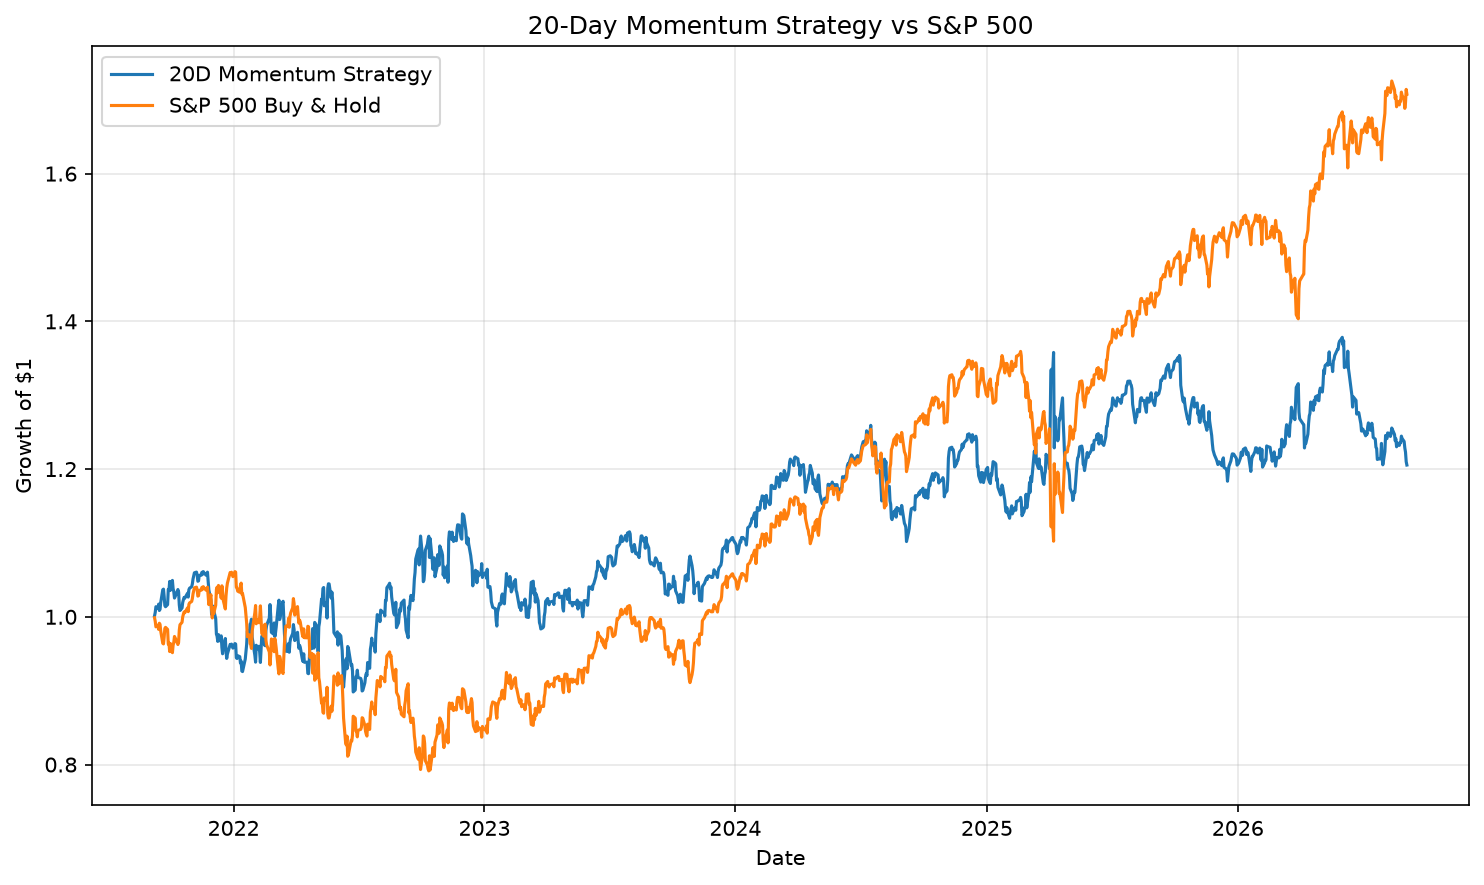
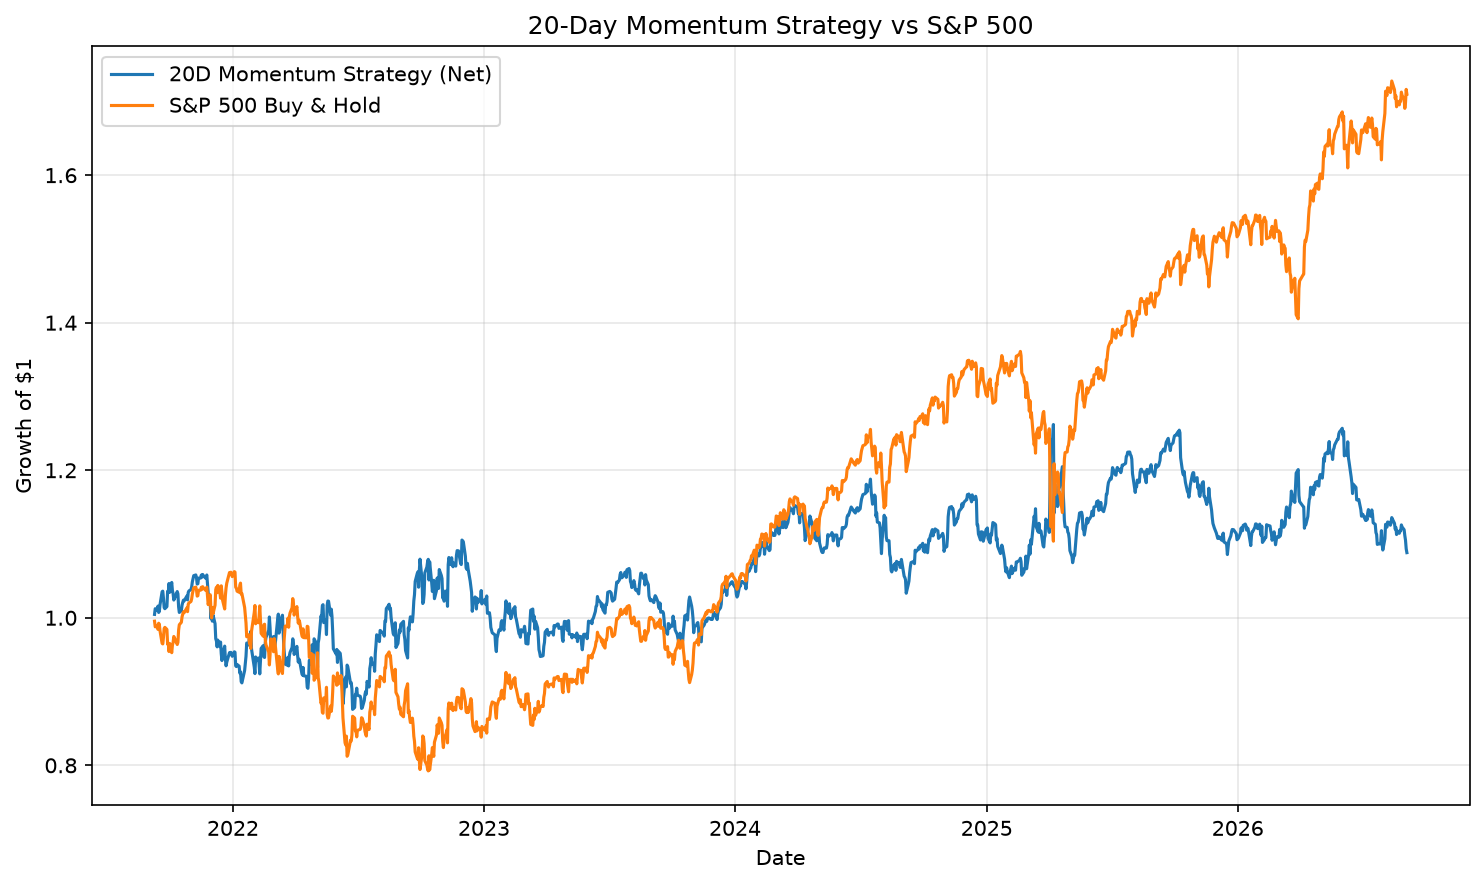
Add momentum strategy backtest and performance analytics

diff --git a/main.py b/main.py
@@ -40,7 +40,6 @@ print(
 
 print("-" * 82)
 
-
 for name, ticker in markets.items():
 
     data = yf.download(
@@ -52,30 +51,24 @@ for name, ticker in markets.items():
 
     prices = data["Close"].squeeze()
 
-    # Daily log returns
     log_returns = np.log(
         prices / prices.shift(1)
     ).dropna()
 
-    # Latest daily log return
     daily_return = log_returns.iloc[-1] * 100
 
-    # 20-day momentum
     momentum_20d = (
         prices.iloc[-1] / prices.iloc[-21] - 1
     ) * 100
 
-    # Last 20 daily log returns
     recent_returns = log_returns.tail(20)
 
-    # Annualized 20-day realized volatility
     vol_20d = (
         recent_returns.std()
         * np.sqrt(252)
         * 100
     )
 
-    # Z-score
     mean_20d = recent_returns.mean()
     std_20d = recent_returns.std()
 
@@ -86,7 +79,6 @@ for name, ticker in markets.items():
     else:
         z_score = 0
 
-    # Standardized return classification
     if z_score > 1:
         classification = "HIGH"
     elif z_score < -1:
@@ -103,7 +95,6 @@ for name, ticker in markets.items():
         f"{classification:>12}"
     )
 
-
 print("=" * 82)
 
 
@@ -115,8 +106,6 @@ print()
 print("SIMPLE 20D MOMENTUM BACKTEST - S&P 500")
 print("=" * 60)
 
-
-# Download 5 years of S&P 500 data
 sp500 = yf.download(
     "^GSPC",
     period="5y",
@@ -126,26 +115,15 @@ sp500 = yf.download(
 
 prices = sp500["Close"].squeeze()
 
-
-# ==========================================================
-# RETURNS AND MOMENTUM
-# ==========================================================
-
 # Daily simple returns
 returns = prices.pct_change()
 
-# 20-day price momentum
+# 20-day momentum
 momentum = (
     prices / prices.shift(20)
 ) - 1
 
-
-# ==========================================================
-# TRADING SIGNAL
-# ==========================================================
-
-# +1 when 20-day momentum is positive
-# -1 when 20-day momentum is negative
+# Trading signal
 signal = np.where(
     momentum > 0,
     1,
@@ -157,19 +135,36 @@ signal = pd.Series(
     index=prices.index
 )
 
+# Shift signal by one day to avoid look-ahead bias
+position = signal.shift(1)
 
-# ==========================================================
-# STRATEGY RETURNS
-# ==========================================================
-
-# Shift the signal by one trading day.
-# This prevents look-ahead bias:
-# today's information is used for tomorrow's position.
-strategy_returns = (
-    signal.shift(1) * returns
+# Gross strategy returns
+gross_strategy_returns = (
+    position * returns
 )
 
-strategy_returns = strategy_returns.dropna()
+# ==========================================================
+# TRANSACTION COSTS
+# ==========================================================
+
+# 5 basis points per unit of turnover
+transaction_cost_bps = 5
+transaction_cost = transaction_cost_bps / 10000
+
+# Turnover:
+# 0 if the position does not change
+# 2 when moving from +1 to -1 or -1 to +1
+turnover = position.diff().abs()
+
+# Daily transaction cost
+daily_cost = (
+    turnover * transaction_cost
+)
+
+# Net strategy returns after costs
+strategy_returns = (
+    gross_strategy_returns - daily_cost
+).dropna()
 
 
 # ==========================================================
@@ -225,6 +220,16 @@ hit_ratio = (
 
 
 # ==========================================================
+# TURNOVER
+# ==========================================================
+
+annual_turnover = (
+    turnover.loc[strategy_returns.index].mean()
+    * 252
+)
+
+
+# ==========================================================
 # DISPLAY BACKTEST RESULTS
 # ==========================================================
 
@@ -251,6 +256,16 @@ print(
 print(
     f"Hit Ratio         : "
     f"{hit_ratio * 100:>8.2f}%"
+)
+
+print(
+    f"Annual Turnover   : "
+    f"{annual_turnover:>8.2f}x"
+)
+
+print(
+    f"Transaction Cost  : "
+    f"{transaction_cost_bps:>8.1f} bps"
 )
 
 print("=" * 60)
@@ -280,7 +295,7 @@ plt.figure(
 plt.plot(
     equity_curve.index,
     equity_curve,
-    label="20D Momentum Strategy"
+    label="20D Momentum Strategy (Net)"
 )
 
 plt.plot(
@@ -304,11 +319,6 @@ plt.grid(
 )
 
 plt.tight_layout()
-
-
-# ==========================================================
-# SAVE CHART
-# ==========================================================
 
 plt.savefig(
     "momentum_backtest.png",
